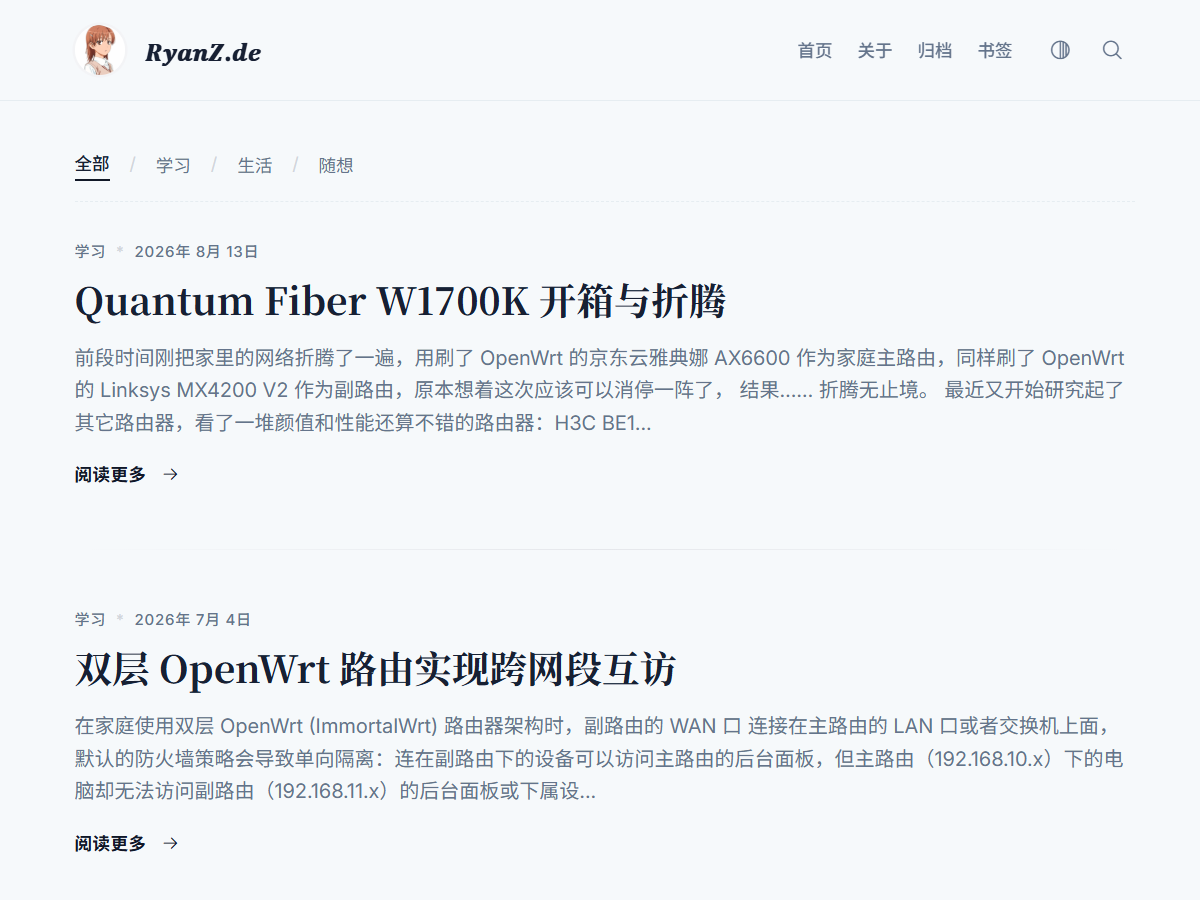
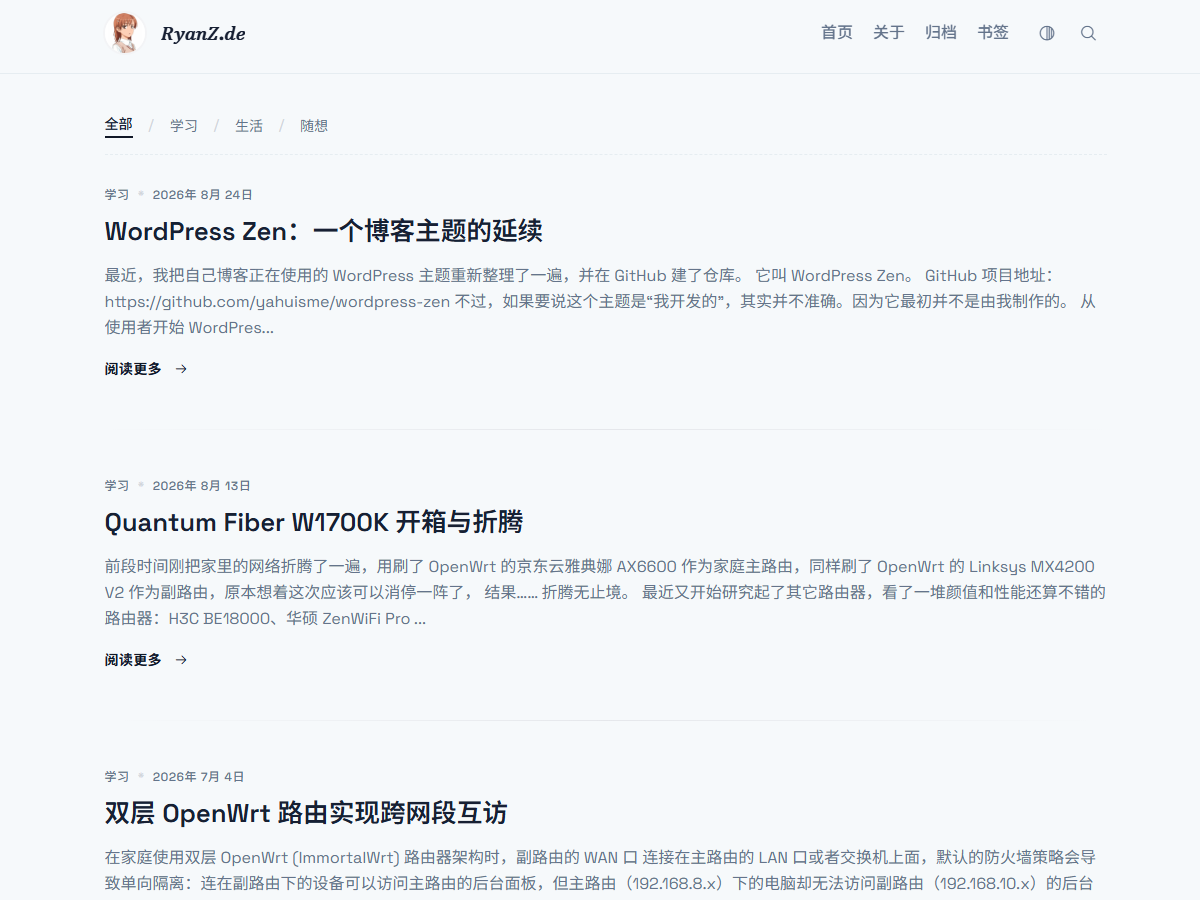
feat: update theme preview screenshot

diff --git a/style.css b/style.css
@@ -4,7 +4,7 @@ Theme URI: https://github.com/yahuisme/wordpress-zen
 Author: RyanZ
 Author URI: https://ryanz.de/
 Description: 一个极简的 WordPress 主题，专注于排版、留白与沉浸式阅读。
-Version: 1.2.3
+Version: 1.2.4
 License: GNU General Public License v3
 License URI: https://www.gnu.org/licenses/gpl-3.0.html
 Text Domain: zen

diff --git a/.github/CHANGELOG.md b/.github/CHANGELOG.md
@@ -1,5 +1,9 @@
 # Zen Theme 更新记录
 
+## 1.2.4
+
+- 更新 WordPress 主题预览图。
+
 ## 1.2.3
 
 - 重新整理主题设置菜单顺序，统一并简化部分设置名称。
